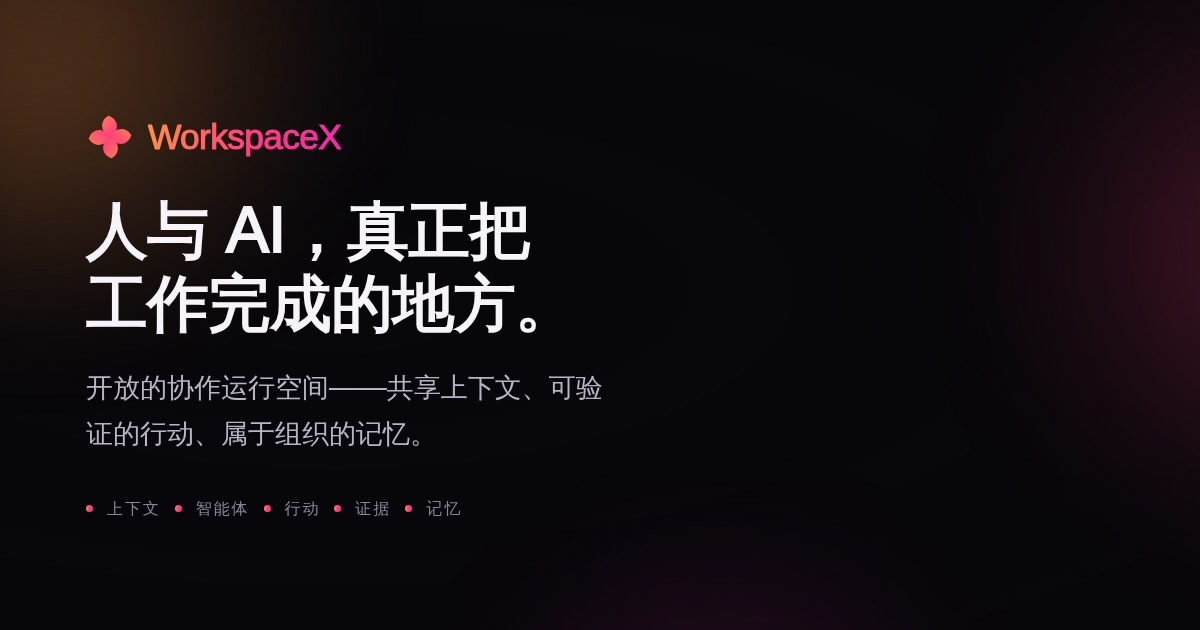
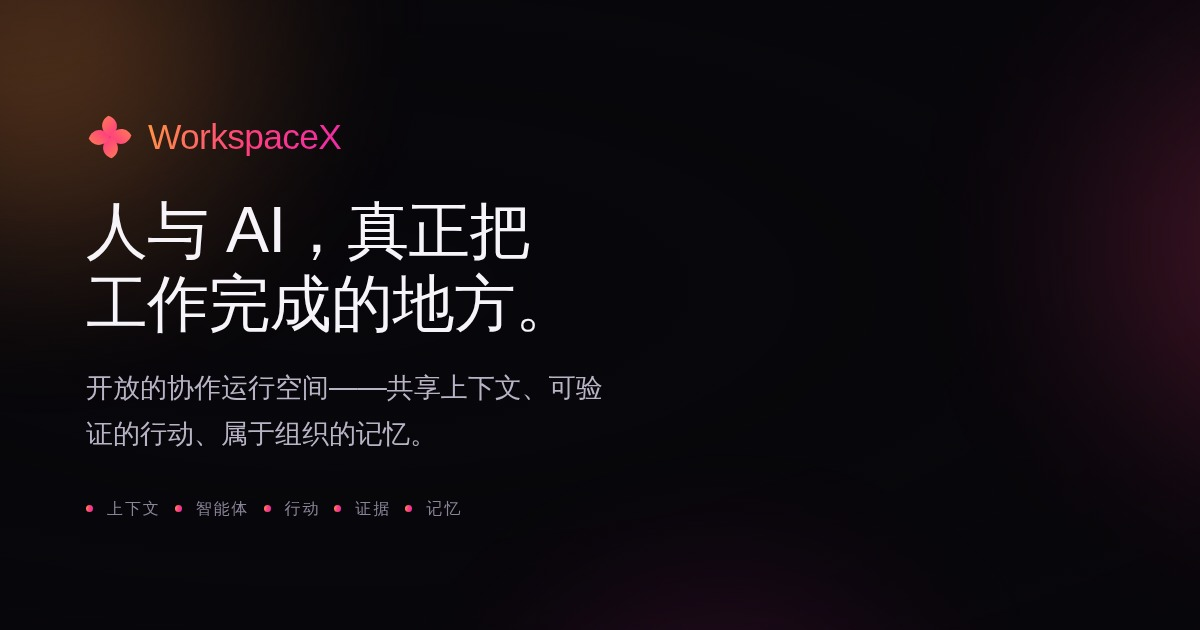
fix(home): round 35 — no faked bold on Han glyphs
The Chinese loop diagram's centre title rendered with a dark halo around
every stroke, the counters filled in, the character a blot. The display
face is latin-only, so Han falls through to the machine's CJK font — and
this machine's only one is WenQuanYi Zen Hei, Regular-only, so the
engine manufactures font-weight: 600 by stroking the glyphs.

Not every reader sees it: macOS, Windows and Android all ship a bold CJK
face. Linux frequently does not, and "read the repository" is this
product's pitch, so that is not an audience to round off.
font-synthesis: none under :lang(zh) is strictly safe — it disables
synthesis, never the use of a real bold face.

New assertion: a diagram label must sit inside its own viewBox. The
existing rule measures how big a label is and never where it ended up,
so a longer translation could run past the edge and be clipped in
silence. Clean across six language x width combinations.

Seven of this round's ten items are verifications rather than fixes —
the break diagram's stray dots are animation particles; the workspace
illustration's 22 dropped elements at 390px are the agent roster, with
the stylesheet explaining that the canvas and the evidence trail are the
argument and the trail is 4 of 4 visible at both widths. The defect
density is dropping and the log says so rather than padding.

All 13 gates green, 19 browser suites.

Claude-Session: https://claude.ai/code/session_01XLnK35RFY2CVyMNrUo85nD

Changed region(s): [[0.0617, 0.3016, 0.4317, 0.5429], [0.1233, 0.181, 0.2775, 0.2413], [0.4317, 0.5127, 0.4625, 0.5429]]

diff --git a/apps/home/assets/css/base.css b/apps/home/assets/css/base.css
@@ -292,6 +292,19 @@ p { text-wrap: pretty; }
   overflow-wrap: break-word;
 }
 
+/* No faked bold on Han. The display face is latin-only, so Chinese falls
+   through to whatever CJK font the machine has — and when that font ships only
+   a Regular weight, the engine manufactures 600 by stroking the glyphs. On
+   latin that is merely ugly; on a dense Han glyph at 30px it fills the
+   counters and the character turns into a blot with a dark halo, which is
+   exactly how the loop diagram's centre title rendered here.
+   Not every reader sees it: macOS, Windows and Android all ship a bold CJK
+   face. Linux frequently does not — and this product's pitch is "read the
+   repository", so that is not an audience to round off.
+   This is strictly safe: it disables SYNTHESIS, never the use of a real bold
+   face, so nothing changes for anyone who has one. */
+:lang(zh) { font-synthesis: none; }
+
 /* A long unbroken token — a URL, a compound identifier — cannot be hyphenated
    in a narrow column and will otherwise push the whole layout sideways. */
 p, li, summary, .card__body, .rail__body { overflow-wrap: break-word; }

diff --git a/apps/home/assets/css/site.css b/apps/home/assets/css/site.css
@@ -279,6 +279,8 @@ p { text-wrap: pretty; }
   overflow-wrap: break-word;
 }
 
+:lang(zh) { font-synthesis: none; }
+
 p, li, summary, .card__body, .rail__body { overflow-wrap: break-word; }
 
 .card__index, .rail__num, .unit__n, .eyebrow, .tag, .surface__path {

diff --git a/apps/home/docs/REVIEW-LOG.md b/apps/home/docs/REVIEW-LOG.md
@@ -986,3 +986,21 @@ Eight SVGs, captured in both languages and at 390 px, and looked at.
 | 8 | **Considered and left alone.** The narrow architecture diagram drops the "moves fast" and "must stay stable" brackets, which is the claim its own `h2` makes verbatim. The code says `if (narrow) return; // no room beside the stack; the copy carries this` — a documented decision with a stated reason, and the copy does carry it. Overriding that on my own judgment would not have been a fix. |
 | 9 | **Checked and clean.** The architecture explorer's state is exactly `ARCH_IMPACT` at both widths — L3 selected, L4 and L5 impacted, L2 and L1 untouched — and the detail panel follows the selection. |
 | 10 | **Checked and clean.** The lit left edge on L2–L3 is the deliberate stable-core marker, not a stuck selection, and the code says so. |
+
+### Round 35 — Han glyphs, and a round that was mostly verification
+
+Two fixes and one gate out of ten items. The defect density is dropping, and
+saying so is more useful than padding the table.
+
+| # | Gap | Fix |
+|---|-----|-----|
+| 1 | The Chinese loop diagram's centre title rendered with a **dark halo around every stroke** — the counters filled in and the character turned into a blot. | Diagnosed, not guessed at. |
+| 2 | Root cause: the display face is latin-only, so Han falls through to the machine's CJK font — and this machine's only one is **WenQuanYi Zen Hei, Regular-only**. The engine manufactures `font-weight: 600` by stroking the glyphs. | — |
+| 3 | Not every reader sees it: macOS, Windows and Android all ship a bold CJK face. Linux frequently does not, and *"read the repository"* is this product's pitch, so that is not an audience to round off. | `font-synthesis: none` under `:lang(zh)`. |
+| 4 | The rule is **strictly safe**: it disables synthesis, never the use of a real bold face. Nobody who has one is affected. | — |
+| 5 | **Nothing checked where a diagram label lands.** The existing rule measures how *big* a label is and never its position, so a longer translation or a renamed gate could run past the edge of its own `viewBox` and be clipped with nothing to say so. | Asserted against the `viewBox` at every width. Clean across six language × width combinations. |
+| 6 | A fourth blank screenshot out of my own capture tool, which does not pump frames. Recognised in one step this time rather than investigated — which is the only value a recorded mistake has. |
+| 7 | **Checked and dismissed.** The break diagram's scattered dots are mid-flight animation particles, not artefacts. |
+| 8 | **Checked and dismissed.** The workspace illustration drops 22 elements at 390 px. What it drops is the agent roster, and the stylesheet says why: *"Three columns at phone width would be three unreadable slivers. Keep the canvas and the evidence trail — they are the argument."* Verified the evidence trail is 4 of 4 visible at both widths. |
+| 9 | **Checked and clean.** Every diagram label sits inside its `viewBox` at 390, 768 and 1280, in both languages. |
+| 10 | **Checked and clean.** The English loop diagram shows no synthesis artefact — which is what isolated the problem to Han glyphs rather than to the style. |
